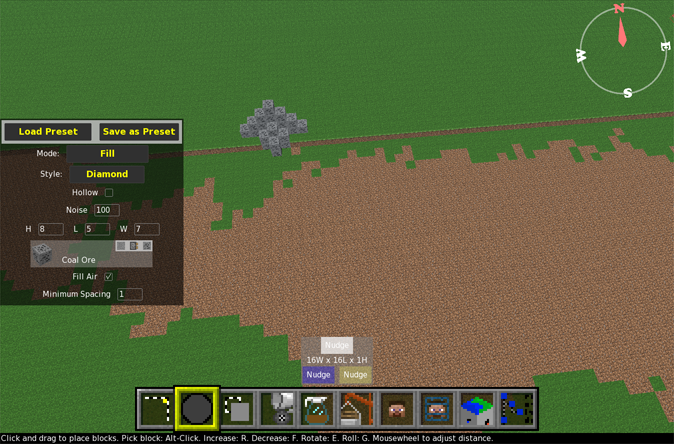
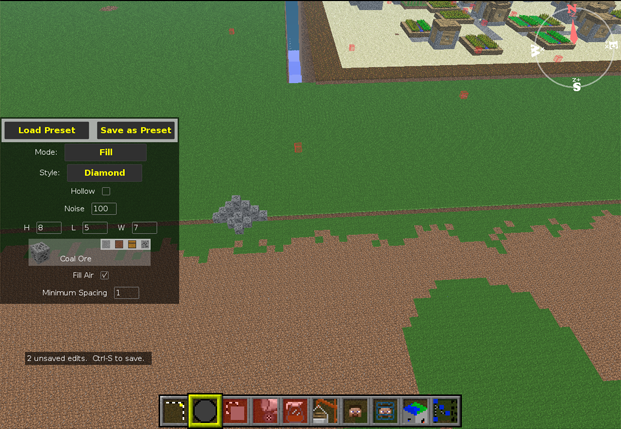
Update to brush tutorial
Woo

diff --git a/tutorial.html b/tutorial.html
@@ -190,15 +190,70 @@
 		</p>
 		<h2 id="Brush">Brush Tool:</h2>
 		<p>
-			The brush tool allows you to "Paint" the world using preset shapes, you can use RFEG to Increase size, Decrease size, rotate and roll this tool.
+			The brush tool allows you to "Paint" the world using preset shapes, you can use RFEG to Increase size, Decrease size, rotate and roll this tool. The varied version will randomly distribute the blocks you select based on selected weightings.
+            <br>
 			<img src="images/brush0.png" class="simg" alt="Image">
 			<br>
 		</p>
+        <h4 align=center>LINE BRUSH:</h4>
 		<p>
 			Hold Z after placing a brush and click a second point to create a solid line of that brush. Line spacing adjusts how close together brushes are.
-			<img src="images/brush0.png" class="simg" alt="Image">
+            <br>
+			<img src="images/brush1.png" class="simg" alt="Image">
+			<br>
+            The line tool works from the last brushed point, so you can continue from the end of your last line.
+		</p>
+        <h4 align=center>ERODE:</h4>
+		<p>
+			You can also erode the terrain, making it more natural. To use this tool set the size and strength you want and click and drag over the area you wish to erode.
+            <br>
+			<img src="images/brush2.png" class="simg" alt="Image">
 			<br>
 		</p>
+        <p>
+			And after.
+            <br>
+			<img src="images/brush3.png" class="simg" alt="Image">
+			<br>
+            It is recommended to make multiple lower intensity passes for best results. If the brush is still too strong at strength 1, turn up Minimum Spacing.
+            <br>
+		</p>
+        <h4 align=center>FLOOD FILL:</h4>
+		<p>
+			This brush will systematically replace all blocks of the same type touching the block you click on. This will go on until you either cancel the operation or it finishes.
+            <br>
+			<img src="images/brush4.png" class="simg" alt="Image">
+            <br>
+            An interrupted flood fill operation.
+		</p>
+        <h4 align=center>PASTE:</h4>
+        <p>
+            The paste brush simply brushes an imported schematic.
+            <br>
+            <img src="images/brush5.png" class="simg" alt="Image">
+        </p>
+        <h4 align=center>REPLACE AND VARIED REPLACE:</h4>
+        <p>
+            The replace and varied replace tools replace the block selected in the first slot with the block(s) selected in the lower box(es).
+            <br>
+            <img src="images/brush6.png" class="simg" alt="Image">
+            <br><br>
+            After:
+            <br>
+            <img src="images/brush7.png" class="simg" alt="Image">
+            <br><br>
+            And using the varied replace:
+            <br>
+            <img src="images/brush8.png" class="simg" alt="Image">
+        </p>
+        <h4 align=center>TOPSOIL:</h4>
+		<p>
+			Topsoil works by replacing the top layer of wherever you brush with the selected block. Depth is selectable.
+            <br>
+			<img src="images/brush9.png" class="simg" alt="Image">
+            <br>
+		</p>
+        
 		<h2 id="Clone">Clone Tool:</h2>
 		<p>
 			Quickly copy blocks within the same level. The selected blocks are cloned into the green box and will
